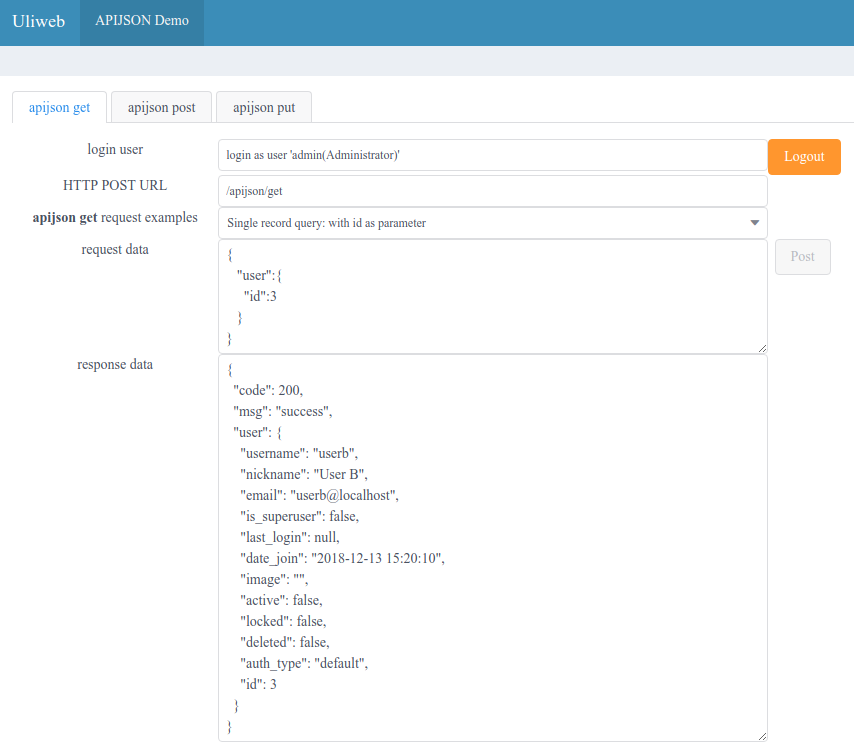
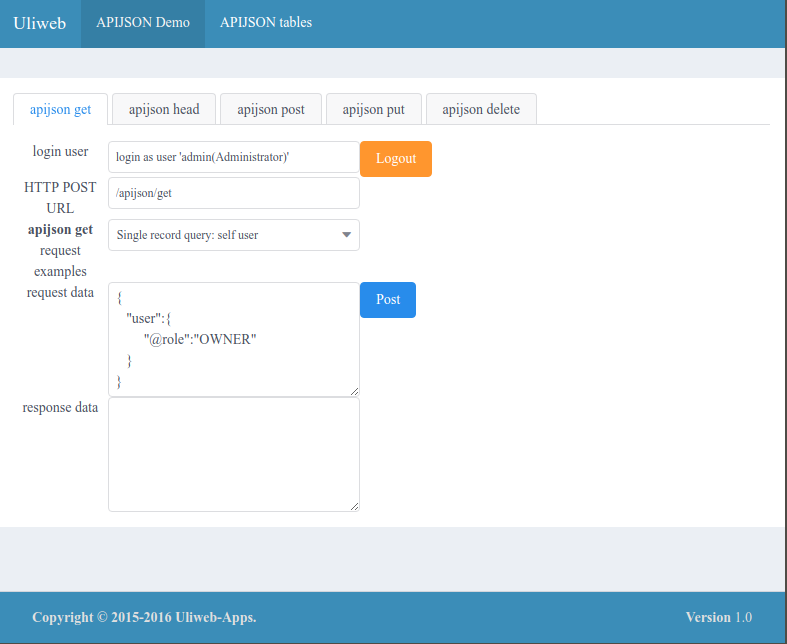
add tables demo

diff --git a/demo/apps/tables/templates/vue/inc_apijson_table.html b/demo/apps/tables/templates/vue/inc_apijson_table.html
@@ -1,0 +1,80 @@
+<script>
+Vue.component('apijson-table', {
+    delimiters: ['{', '}'],
+    props: ["table_name"],
+    template: `<div>
+    <i-table stripe border :columns="tcolumns" :data="tlist" @on-sort-change="table_on_sort_change"></i-table>
+    <page :total="total" :page-size="query_count" :current.sync="current_page" :page-size-opts="[10, 20, 50, 100]" show-sizer @on-change="page_on_change" @on-page-size-change="page_on_page_size_change"></page>
+</div>`,
+    data: function(){
+        return {
+            tcolumns:[
+                {title:'#',key:'id'}
+            ],
+            tcolumns_init: false,
+            tlist:[],
+            query_count: 10,
+            current_page: 1,
+            total: 0,
+            sort_key: "id",
+            sort_order: "-"
+        }
+    },
+    methods: {
+        update_list: function(){
+            var thisp = this
+            var arr_params = {
+                "@count":thisp.query_count,
+                "@page":thisp.current_page-1,
+                "@query":2
+            }
+            arr_params[this.table_name] = {
+                "@order":thisp.sort_key+thisp.sort_order,
+                "@role":"{{=role}}"
+            }
+            var params = {
+                "[]":arr_params,
+                "total@":"/[]/total"
+            }
+            $.ajax({
+                type: "POST",
+                url: "{{=url_for('uliweb_apijson.apijson.views.ApiJson.get')}}",
+                contentType: 'application/json',
+                data: JSON.stringify(params),
+                success: function (data) {
+                    if (data.code==200) {
+                        var arr = data["[]"]
+                        if (!thisp.tcolumns_init) {
+                            if (arr.length>0) {
+                                var item = arr[0]
+                                for (var k in item){
+                                    if (k!="id") {
+                                        thisp.tcolumns.push({title:k,key:k})
+                                    }
+                                }
+                                thisp.tcolumns_init = true
+                            }
+                        }
+                        thisp.tlist = arr
+                        thisp.total = data.total
+                    }
+                }
+            })
+        },
+        table_on_sort_change: function(){
+
+        },
+        page_on_change: function(data) {
+            this.update_list()
+        },
+        page_on_page_size_change: function(data) {
+            this.query_count = data
+            this.current_page = 0
+            this.update_list()
+        }
+    },
+    mounted: function(){
+        this.update_list()
+    }
+})
+</script>

diff --git a/demo/apps/tables/templates/Tables/list.html b/demo/apps/tables/templates/Tables/list.html
@@ -1,0 +1,28 @@
+{{extend "Tables/layout.html"}}
+
+{{block content_main}}
+{{use "ui.vue"}}
+{{use "ui.iview"}}
+{{include "vue/inc_apijson_table.html"}}
+{{if role!="ADMIN":}}
+<div class="alert alert-warning" role="alert">You should <a class="btn btn-primary btn-sm" href="{{=url_for('uliweb_apps.login.views.login')}}" role="button">login</a> with user <strong>admin</strong> to view all the tables</div>
+{{pass #if}}
+<div id="app">
+    <tabs v-model:value="tab_current" type="card">
+        <tab-pane v-for="item in tabs" :key="item" :label="item" :name="item">
+            <apijson-table :table_name="item"></apijson-table>
+        </tab-pane>
+    </tabs>
+</div>
+
+<script>
+var vm = new Vue({
+    el: '#app',
+    delimiters: ['{', '}'],
+    data:{
+        tab_current: null,
+        tabs: {{=table_keys_json}}
+    }
+})
+</script>
+{{end content_main}}

diff --git a/demo/apps/tables/templates/Tables/layout.html b/demo/apps/tables/templates/Tables/layout.html
@@ -1,0 +1,11 @@
+{{extend "site/layout0.html"}}
+
+{{block title}}uliweb-apijson demo{{end title}}
+
+{{block mainmenu}}
+{{<< mainmenu('tables')}}
+{{end mainmenu}}
+
+{{block sidemenu}}{{end sidemenu}}
+
+{{block header_custom_menu}}{{end header_custom_menu}}

diff --git a/demo/apps/tables/views.py b/demo/apps/tables/views.py
@@ -1,0 +1,19 @@
+#coding=utf-8
+from uliweb import expose, functions
+from json import dumps
+
+@expose('/tables')
+class Tables(object):
+    @expose('')
+    def list(self):
+        table_keys = settings.APIJSON_MODELS.keys()
+        if request.user and functions.has_role(request.user,"ADMIN"):
+            role = "ADMIN"
+        elif request.user:
+            role = "LOGIN"
+        else:
+            role = "UNKNOWN"
+        return {
+            "table_keys_json":dumps(table_keys),
+            "role":role
+        }

diff --git a/uliweb_apijson/apijson/views.py b/uliweb_apijson/apijson/views.py
@@ -123,7 +123,7 @@ class ApiJson(object):
         if query_page:
             #@page begin from 0
             try:
-                query_page = int(params[n])
+                query_page = int(query_page)
             except ValueError as e:
                 log.error("bad param in '%s': '%s'"%(n,params))
                 return json({"code":400,"msg":"@page should be an int, now '%s'"%(params[n])})
